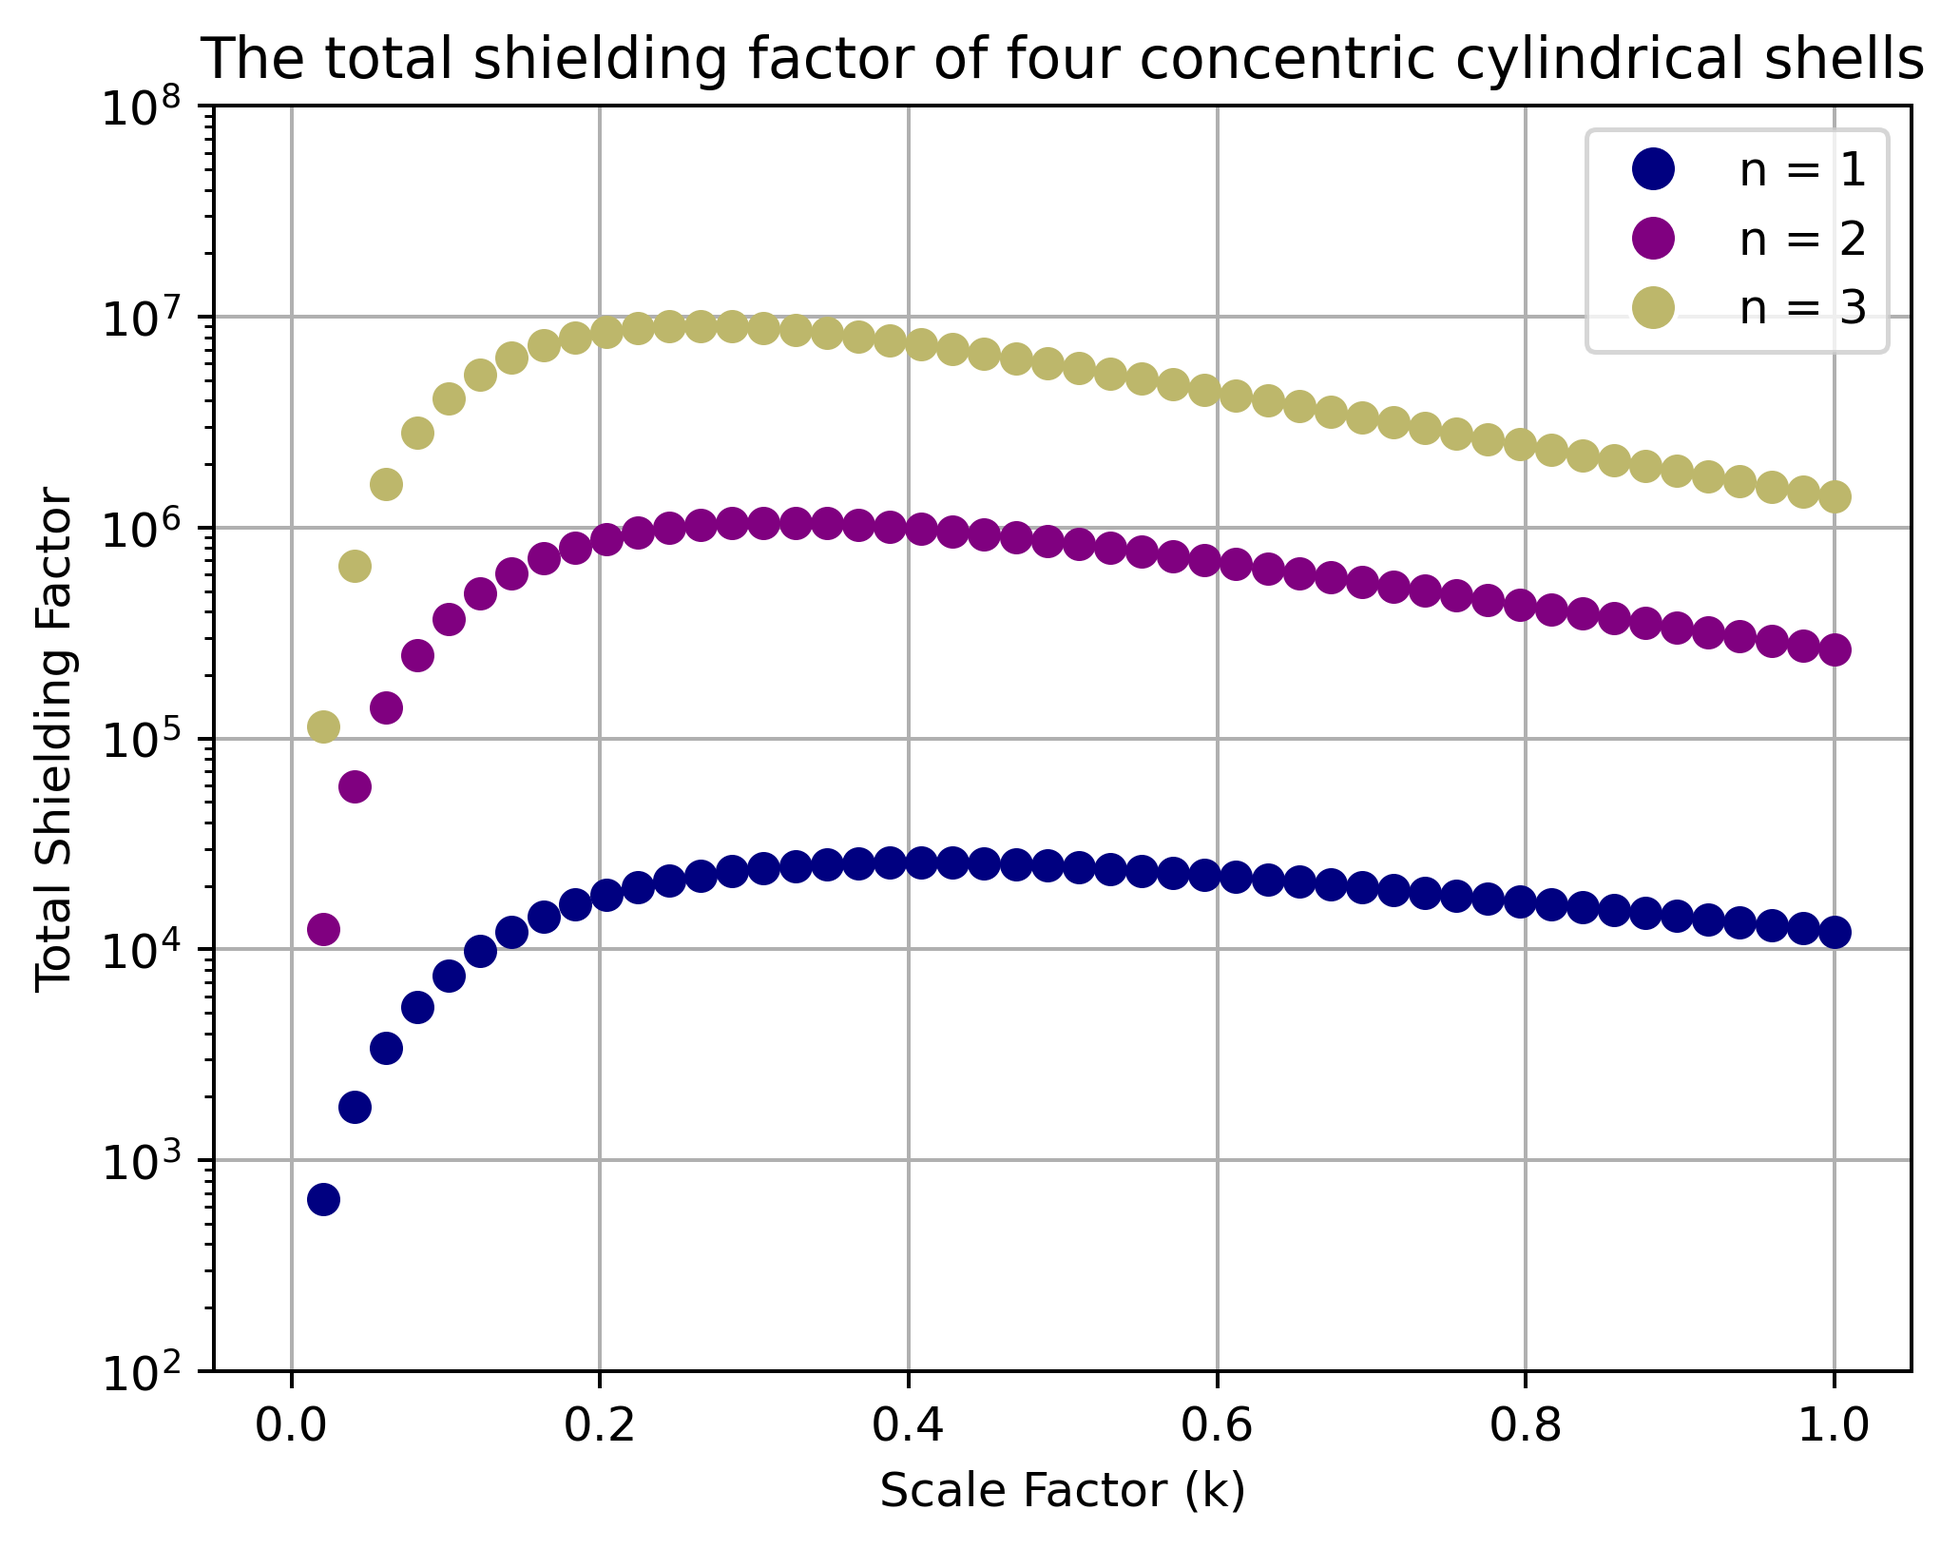
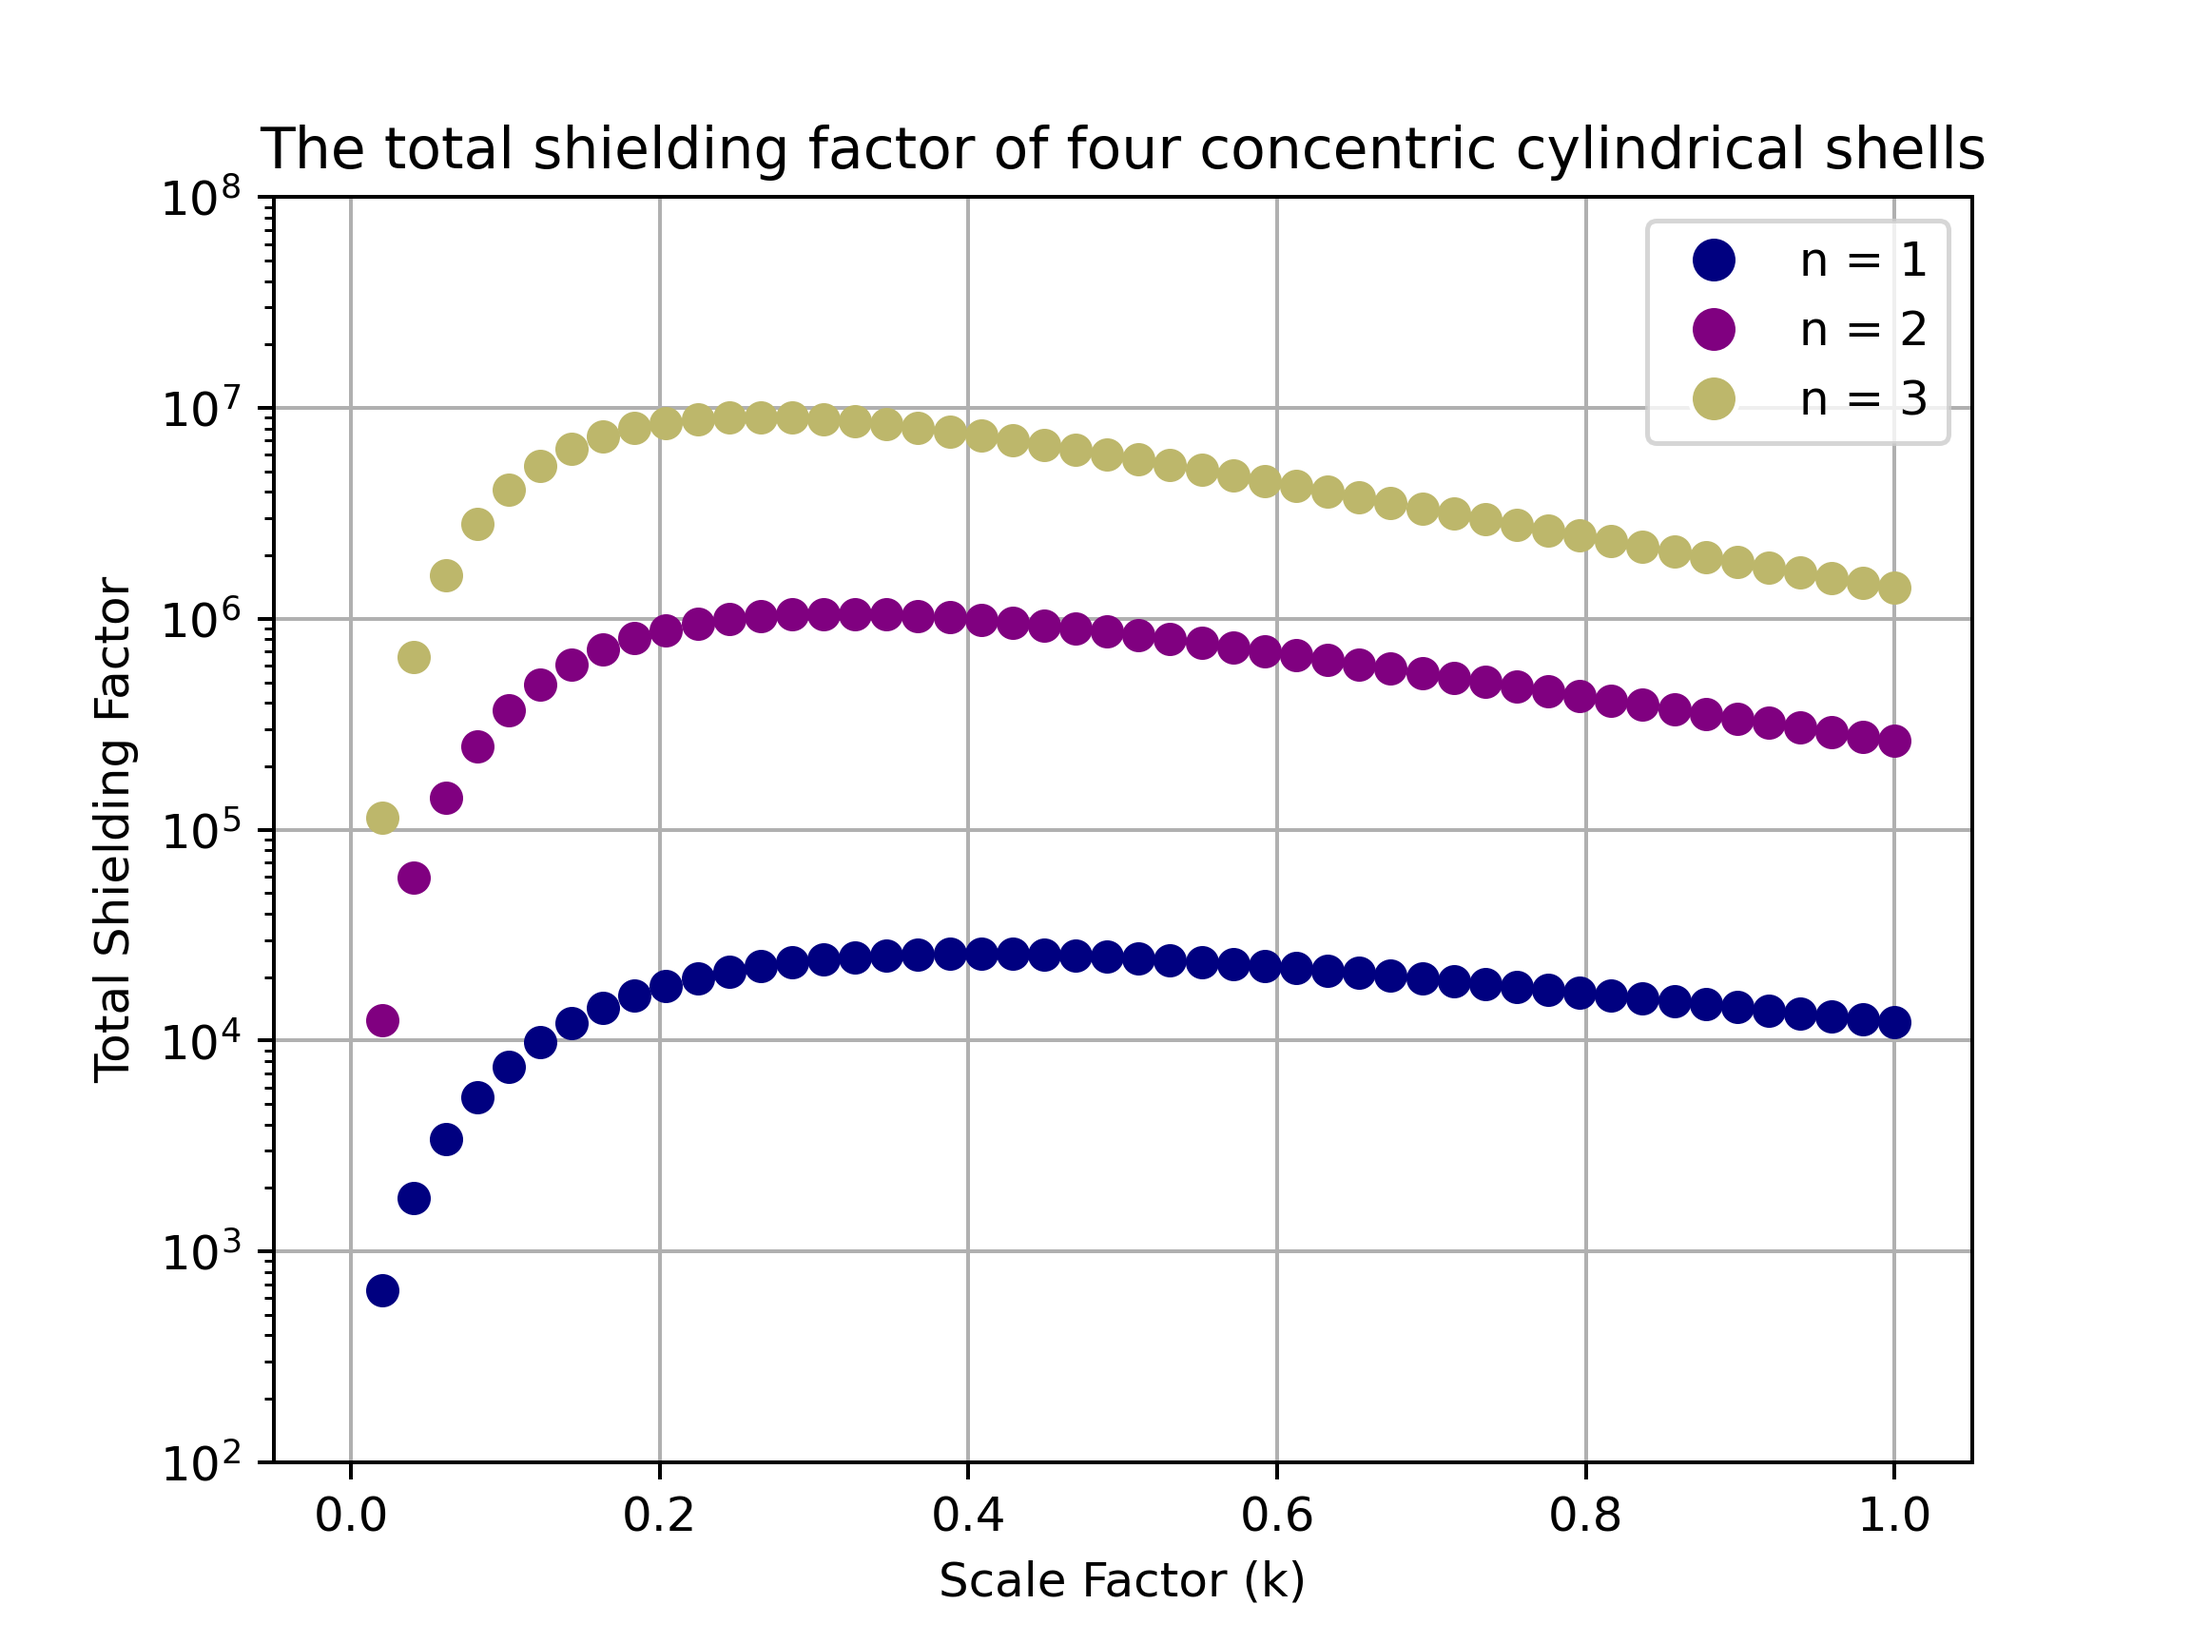
Figures updated

diff --git a/invert_five_layers_msl_2.py b/invert_five_layers_msl_2.py
@@ -7,7 +7,8 @@ Created on Tue Jan 16 14:28:58 2024
 
 import numpy as np
 from scipy.linalg import lu, solve
-
+import matplotlib.pyplot as plt
+import os
 
 class MatrixSolver:
     def __init__(self, capm, n, capr1, t, mur):
@@ -67,9 +68,34 @@ if __name__ == "__main__":
     n = 1
     capr1 = np.array([2.26 / 2, 2.4 / 2, 2.6 / 2, 3.0 / 2, 3.5 / 2])
     t = np.array([0.002, 0.002, 0.003, 0.003, 0.004])
-    mur = np.full(capm, 20000)
 
-    matrix_solver = MatrixSolver(capm, n, capr1, t, mur)
-    sfact_result = matrix_solver.solve()
+    # Different values of mur
+    mur_values = np.linspace(20000, 50000, 300)
 
-    print(f"The total shielding factor: {sfact_result}")
+    # Plotting setup
+    plt.figure(figsize=(8, 6))
+
+    for mur_value in mur_values:
+        mur = np.array([mur_value] * capm)
+
+        matrix_solver = MatrixSolver(capm, n, capr1, t, mur)
+        sfact_result = matrix_solver.solve()
+
+        # print(f"For mur = {mur_value}, The total shielding factor: {sfact_result}")
+
+        # Plotting results
+        plt.plot(mur_value, sfact_result, 'o', markersize=2, color='navy')
+    legend_labels = ['mur']
+    legend_handles = [plt.Line2D([0], [0], marker='o', color='w',
+                    markerfacecolor='navy', markersize=5)]
+    plt.xlabel('mur')
+    plt.ylabel('Total Shielding Factor')
+    plt.legend(legend_handles, legend_labels)
+    plt.grid()
+    plt.title('Total Shielding Factor vs mur - 5 layers')
+    plt.show()
+    
+    output_folder = "Figures"
+    os.makedirs(output_folder, exist_ok=True)
+    output_file_path = os.path.join(output_folder, "DifferentMurCyl5layer.png")
+    plt.savefig(output_file_path, dpi=360)

diff --git a/invert_fourlayer_msl_2.py b/invert_fourlayer_msl_2.py
@@ -7,7 +7,8 @@ Created on Tue Jan 16 14:26:54 2024
 
 import numpy as np
 from scipy.linalg import lu, solve
-
+import matplotlib.pyplot as plt
+import os
 
 class MatrixSolver:
     def __init__(self, capm, n, capr1, t, mur):
@@ -67,9 +68,33 @@ if __name__ == "__main__":
     n = 1
     capr1 = np.array([2.4 / 2, 2.6 / 2, 3.0 / 2, 3.5 / 2])
     t = np.array([0.002, 0.003, 0.003, 0.004])
-    mur = np.array([20000] * capm)
 
-    matrix_solver = MatrixSolver(capm, n, capr1, t, mur)
-    sfact_result = matrix_solver.solve()
+    # Different values of mur
+    mur_values = np.linspace(20000, 50000, 300)
 
-    print(f"The total shielding factor: {sfact_result}")
+    # Plotting setup
+    plt.figure(figsize=(8, 6))
+
+    for mur_value in mur_values:
+        mur = np.array([mur_value] * capm)
+
+        matrix_solver = MatrixSolver(capm, n, capr1, t, mur)
+        sfact_result = matrix_solver.solve()
+
+        # print(f"For mur = {mur_value}, The total shielding factor: {sfact_result}")
+
+        # Plotting results
+        plt.plot(mur_value, sfact_result, 'o', markersize=2, color='navy')
+    legend_labels = ['mur']
+    legend_handles = [plt.Line2D([0], [0], marker='o', color='w',
+                    markerfacecolor='navy', markersize=5)]
+    plt.xlabel('mur')
+    plt.ylabel('Total Shielding Factor')
+    plt.legend(legend_handles, legend_labels)
+    plt.grid()
+    plt.title('Total Shielding Factor vs mur - 4 layers')
+    plt.show()
+    output_folder = "Figures"
+    os.makedirs(output_folder, exist_ok=True)
+    output_file_path = os.path.join(output_folder, "DifferentMurCyl4layer.png")
+    plt.savefig(output_file_path, dpi=360)

diff --git a/fig3_plot.py b/fig3_plot.py
@@ -8,6 +8,7 @@ Created on Wed Jan 10 15:33:23 2024
 import numpy as np
 from scipy.linalg import lu, solve
 import matplotlib.pyplot as plt
+import os
 
 
 class MatrixSolver:
@@ -122,5 +123,8 @@ if __name__ == "__main__":
     plt.legend(legend_handles, legend_labels)
     plt.title(
         'The total shielding factor of four concentric spherical shells')
-    plt.savefig('SphericalShells.png', bbox_inches='tight', dpi=360)
     plt.show()
+    output_folder = "Figures"
+    os.makedirs(output_folder, exist_ok=True)
+    output_file_path = os.path.join(output_folder, "SphericalShells.png")
+    plt.savefig(output_file_path, dpi=360)

diff --git a/fig2_plot.py b/fig2_plot.py
@@ -8,7 +8,7 @@ Created on Wed Jan 10 15:33:23 2024
 import numpy as np
 from scipy.linalg import lu, solve
 import matplotlib.pyplot as plt
-
+import os
 
 class MatrixSolver:
     def __init__(self, capm, n, k_values):
@@ -121,3 +121,7 @@ if __name__ == "__main__":
         'The total shielding factor of four concentric cylindrical shells')
     plt.savefig('CylindricalShells.png', bbox_inches='tight', dpi=360)
     plt.show()
+    output_folder = "Figures"
+    os.makedirs(output_folder, exist_ok=True)
+    output_file_path = os.path.join(output_folder, "CylindricalShells.png")
+    plt.savefig(output_file_path, dpi=360)
